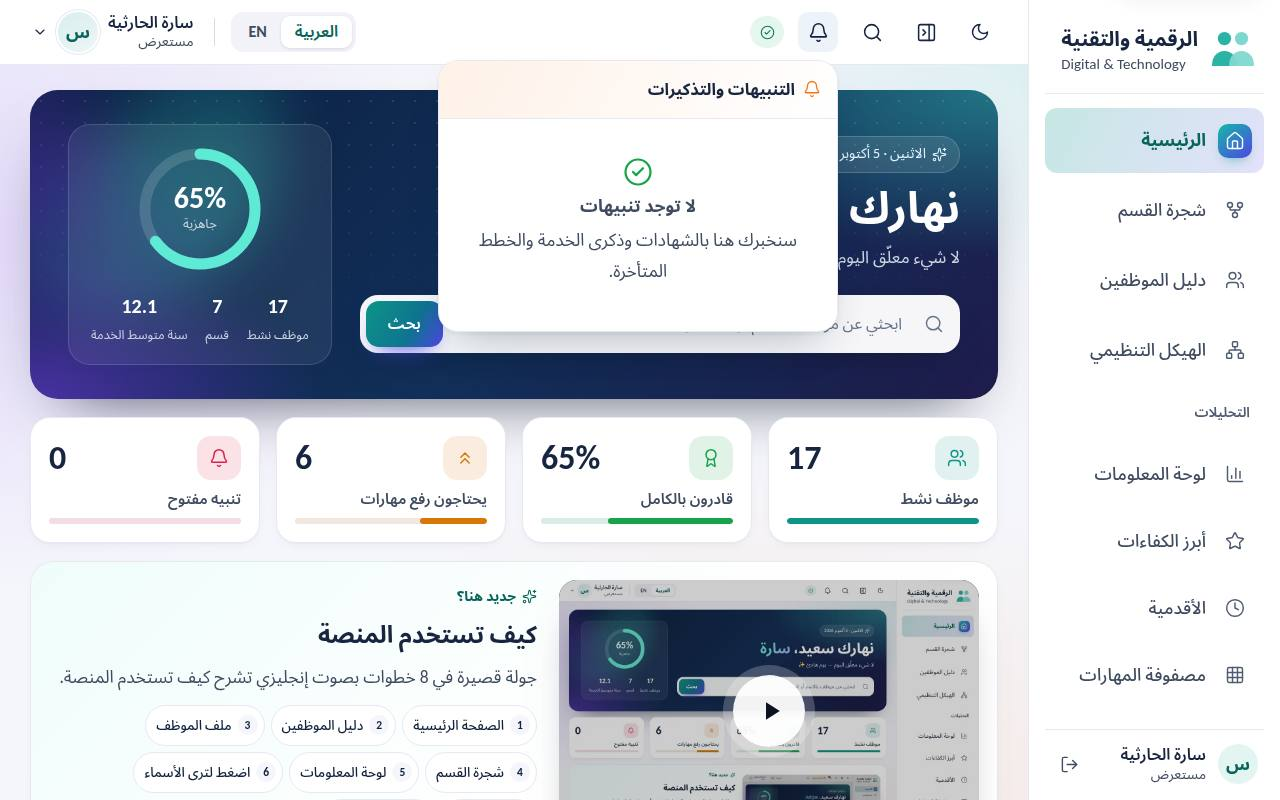
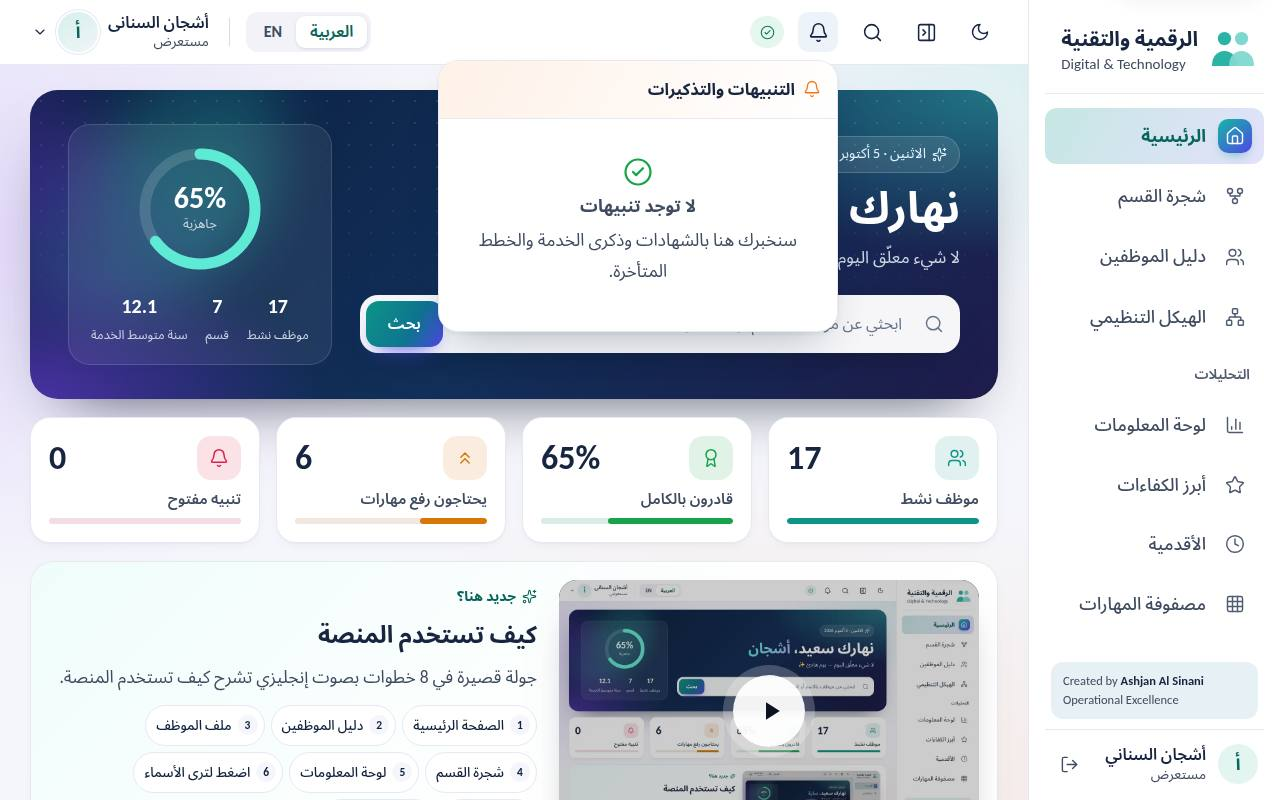
Tour screenshots show Ashjan; credit reads Operational Excellence
Claude-Session: https://claude.ai/code/session_01KUe5c3eo34UUJyRfExNPRe

diff --git a/employee-directory/assets/app.js b/employee-directory/assets/app.js
@@ -1136,7 +1136,7 @@ async function Urn(e,n,{store:r}){let T=Tx,st;try{st=await P("/api/settings")}ca
 /* ---------- Welcome / today page ---------- */
 var Hrel=iso=>{let d=(new Date(iso)-new Date())/1e3,u=[["year",31536e3],["month",2592e3],["week",604800],["day",86400],["hour",3600],["minute",60]],f=new Intl.RelativeTimeFormat(E()==="ar"?"ar":"en",{numeric:"auto"});for(let[k,v]of u)if(Math.abs(d)>=v)return f.format(Math.round(d/v),k);return Tx("الآن","just now")},
  Hact=a2=>({create:["user-plus","#16A34A",Tx("إضافة موظف","Employee added")],update:["pencil","#2563EB",Tx("تعديل بيانات","Details updated")],delete:["trash-2","#E11D48",Tx("حذف موظف","Employee deleted")],photo_upload:["camera","#7C3AED",Tx("رفع صورة","Photo added")],photo_remove:["image","#64748B",Tx("حذف صورة","Photo removed")],review_resolved:["circle-check","#0D9488",Tx("مراجعة عنصر","Item reviewed")],levels_update:["layers","#D97706",Tx("تحديث المستويات","Levels updated")],hierarchy:["network","#D97706",Tx("تحديث الترتيب","Hierarchy updated")],settings_update:["settings","#64748B",Tx("تحديث الإعدادات","Settings updated")],user_add:["user-plus","#7C3AED",Tx("إضافة مستخدم","User added")],user_update:["key-round","#7C3AED",Tx("تعديل مستخدم","User updated")],user_delete:["trash-2","#E11D48",Tx("حذف مستخدم","User deleted")],import:["file-spreadsheet","#0D9488",Tx("استيراد بيانات","Data imported")],login:["log-out","#64748B",Tx("تسجيل دخول","Signed in")]}[a2]||["history","#64748B",a2]);
-var Lgo=()=>{try{return(D.ui||{}).logo||""}catch{return""}},Lgimg=cls=>Lgo()?`<img class="org-logo ${cls||""}" src="${a(Lgo())}" alt="${a(E()==="ar"?"شعار الجهة":"Organisation logo")}">`:"",Credit=()=>'<p class="credit" dir="ltr" lang="en"><span>Created by <strong>Ashjan Al Sinani</strong></span><span>Operational Excellence Engineer</span></p>';
+var Lgo=()=>{try{return(D.ui||{}).logo||""}catch{return""}},Lgimg=cls=>Lgo()?`<img class="org-logo ${cls||""}" src="${a(Lgo())}" alt="${a(E()==="ar"?"شعار الجهة":"Organisation logo")}">`:"",Credit=()=>'<p class="credit" dir="ltr" lang="en"><span>Created by <strong>Ashjan Al Sinani</strong></span><span>Operational Excellence</span></p>';
 window.__logoPanel=()=>{let T=Tx,lg=Lgo();return`<section class="panel lg-panel"><h2 class="panel-title">${h("image",20)}<span>${a(T("شعار الجهة","Organisation logo"))}</span></h2><p class="panel-note">${a(T("يظهر في القائمة الجانبية وشاشة الدخول والتقرير الشهري. يُحفظ داخل المنصة على هذا الجهاز (وفي النسخة الاحتياطية) ولا يُرفع إلى أي مكان. استخدمي ملف الشعار الرسمي بخلفية شفافة (PNG أو SVG).","Shown in the sidebar, sign-in screen and monthly report. Stored in the platform on this device (and in backups), never uploaded anywhere. Use the official file with a transparent background (PNG or SVG)."))}</p>
  <div class="lg-box">${lg?`<img src="${a(lg)}" alt="">`:`<span class="lg-empty">${h("image",28)}<small>${a(T("لا يوجد شعار","No logo yet"))}</small></span>`}</div>
  <div class="lg-actions"><label class="btn btn-primary btn-sm">${h("upload",15)}<span>${a(lg?T("تغيير الشعار","Replace logo"):T("رفع الشعار","Upload logo"))}</span><input type="file" id="lgFile" accept="image/png,image/svg+xml,image/jpeg,image/webp" hidden></label>${lg?`<button type="button" class="btn btn-ghost btn-sm" data-lg-del>${h("trash-2",15)}<span>${a(T("إزالة","Remove"))}</span></button>`:""}</div></section>`};

diff --git a/employee-directory/sw.js b/employee-directory/sw.js
@@ -1,5 +1,5 @@
 /* Offline cache for the app shell. Data stays in the browser's localStorage. */
-const CACHE = "dtd-v26";
+const CACHE = "dtd-v27";
 const SHELL = [
   "./",
   "index.html",

diff --git a/employee-directory/README.md b/employee-directory/README.md
@@ -27,7 +27,7 @@ python3 -m http.server 8000 --bind 127.0.0.1
 ## ملاحظات
 
 - **شعار الجهة:** من «إعدادات الموقع ← شعار الجهة» يُرفع ملف الشعار الرسمي (PNG/SVG/JPG/WebP حتى 2 ميجابايت)، فيظهر في القائمة الجانبية وشاشة الدخول وغلاف التقرير الشهري. يُحفظ داخل المنصة على الجهاز وفي النسخة الاحتياطية، ولا يُضاف إلى المستودع.
-- **الحقوق:** «Created by Ashjan Al Sinani — Operational Excellence Engineer» في شاشة الدخول وأسفل القائمة الجانبية وأسفل الصفحة الرئيسية على الجوال وفي التقرير الشهري.
+- **الحقوق:** «Created by Ashjan Al Sinani — Operational Excellence» في شاشة الدخول وأسفل القائمة الجانبية وأسفل الصفحة الرئيسية على الجوال وفي التقرير الشهري.
 
 - **الجولة التعليمية (للمستخدمين):** بطاقة «كيف تستخدم المنصة» في الصفحة الرئيسية تفتح مشغّلًا بأسلوب الفيديو بـ 8 خطوات للمستخدم العادي فقط (بدون أي شيء خاص بالإدارة): صور حقيقية من حساب «مشاهد»، تكبير تدريجي، مؤشر يتحرك، إبراز للجزء المشروح، وشرح مكتوب. **صوت إنجليزي** يشرح كل خطوة باستخدام الصوت المدمج في المتصفح (مجاني، بدون خادم)، والجولة تنتظر انتهاء كل جملة، مع زر كتم يُحفظ اختياره (الاختصار M). جودة الصوت تختلف حسب الجهاز، وإن لم يتوفر صوت إنجليزي تعمل الجولة بالنص فقط. تفتح تلقائيًا لكل مستخدم جديد بعد تغيير كلمة المرور في أول دخول، ولا تفتح تلقائيًا للمسؤولة.
 - **لوحة المعلومات للمستخدم العادي:** تظهر «نظرة عامة على القسم» بدل «ملخص الإدارة»، بدون «أولويات الإدارة» ولا عمود «متابعة عالية».
